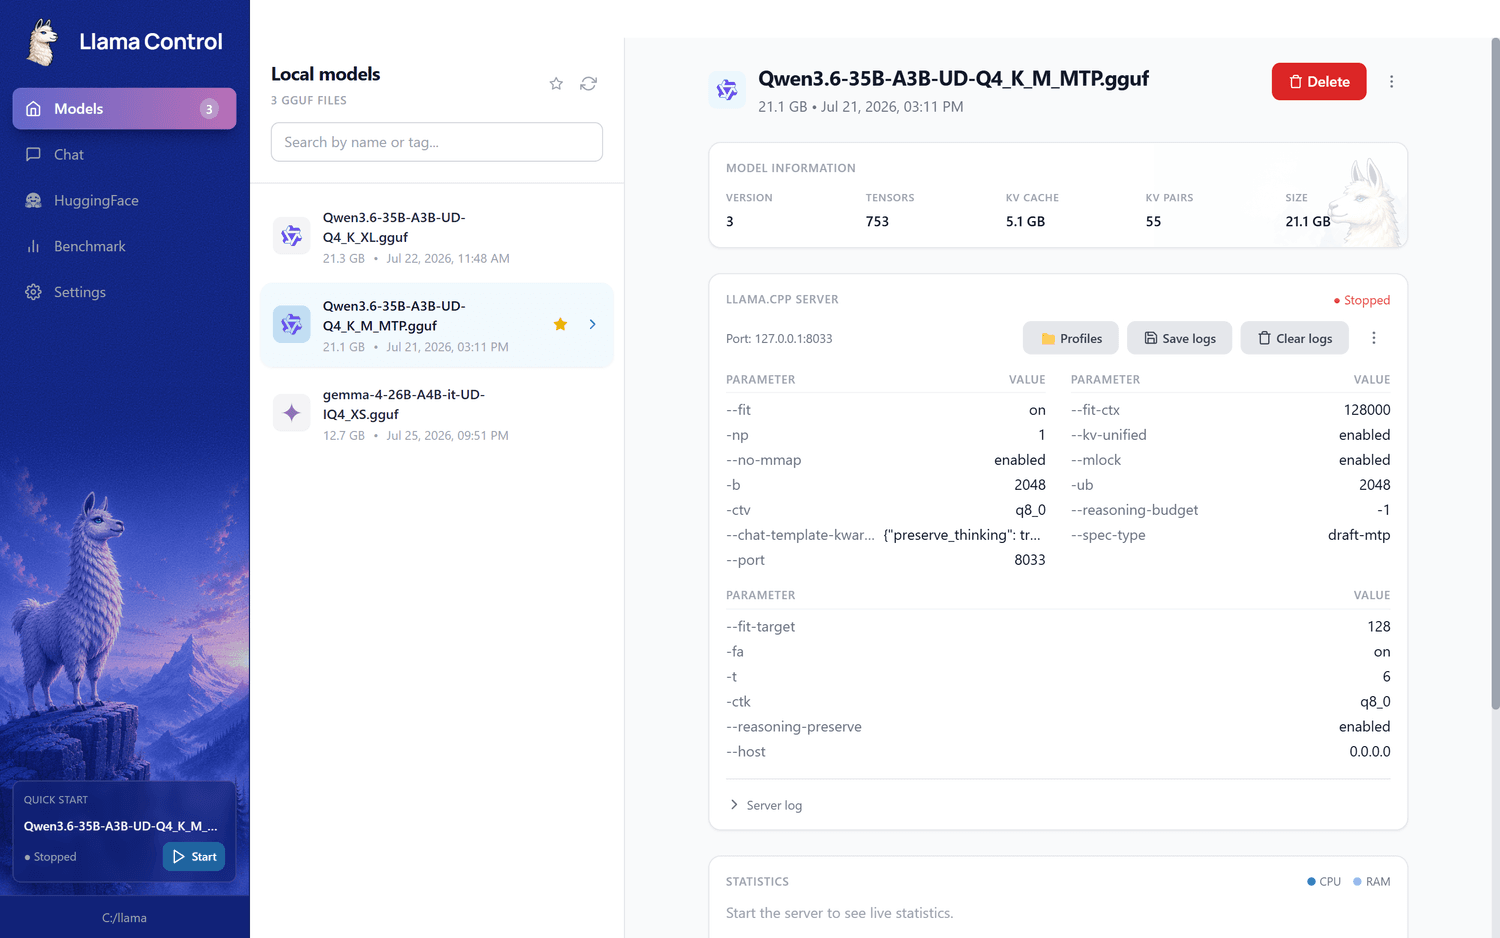
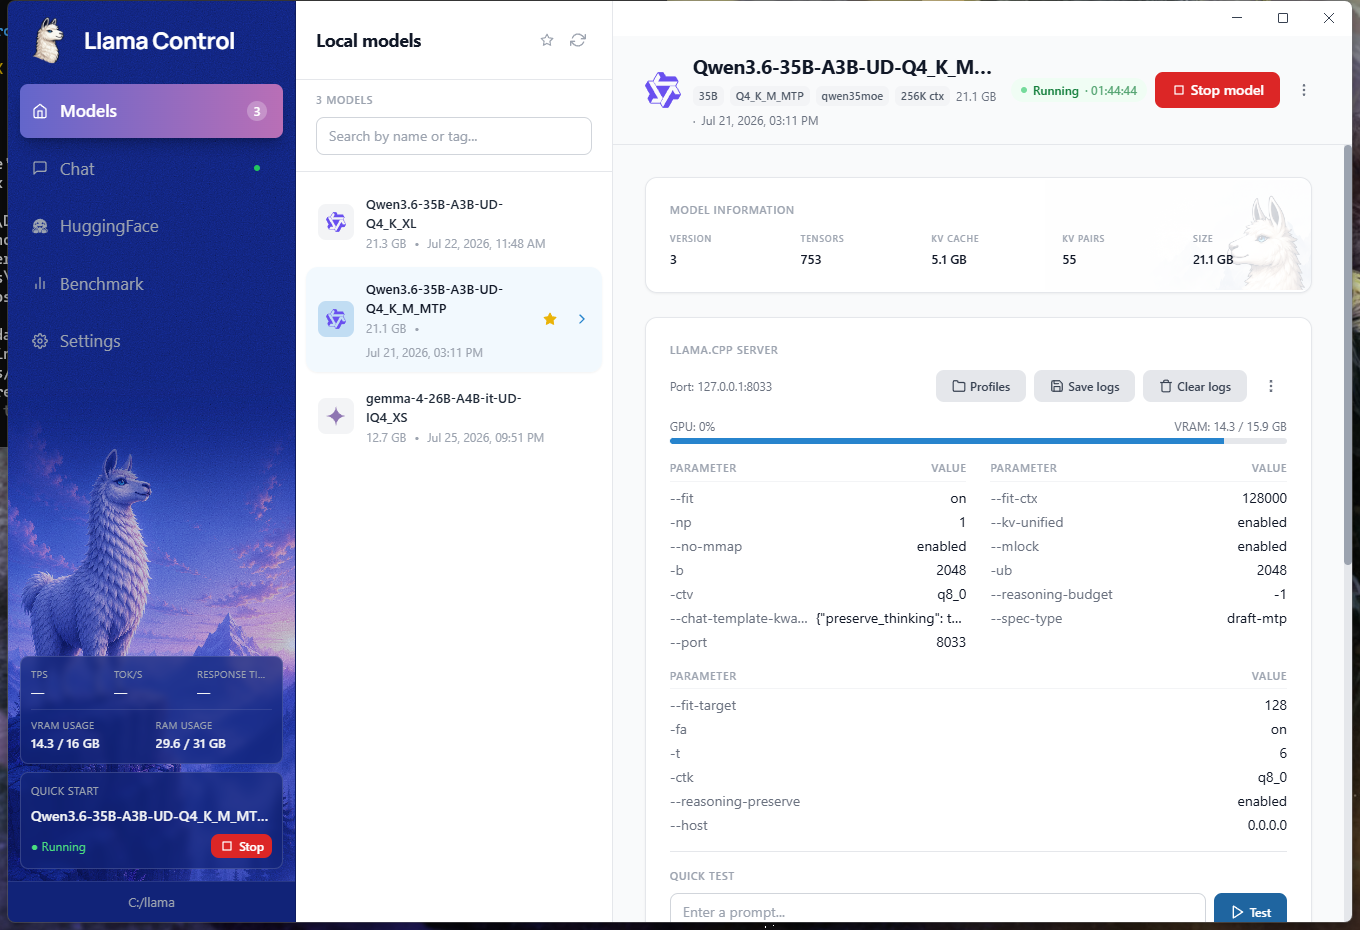
Document the terminal, and fix the stale AMD/Intel GPU claim
New split terminal ships alongside chat, and both GPU vendors already
get accelerated inference via Vulkan (not just "planned"), so the
feature list and screenshots needed to catch up.

diff --git a/README.md b/README.md
@@ -39,6 +39,10 @@ Llama Control is a friendly **wrapper** around that engine:
   ![Browsing HuggingFace with hardware-aware fit hints](docs/huggingface-en.png)
 
 - **Can figure out good settings for you, and actually checks them.** An AI assistant proposes a starting configuration for a model, then an "auto-tune" mode can launch it for real, test it under real load, and automatically back off to safer settings if something crashes — instead of just guessing and hoping.
+- **Ships a built-in terminal**, side by side with chat. Split it into as many panes as you need, and each one keeps running — including whatever's inside it — even while you're looking at a different tab.
+
+  ![Chat and a split terminal, side by side](docs/terminal-en.png)
+
 - **Updates itself** whenever a new version comes out.
 
 In short: you install it, the app figures out the rest, you just click.
@@ -50,12 +54,11 @@ This isn't meant to be another standalone AI engine competing with those. It's d
 ### What devices this works on
 
 - **Windows only for now** (10 or 11): desktop or laptop. Doesn't work on phones or tablets.
-- **An NVIDIA graphics card (GeForce/RTX) is recommended.** Models run fast with one. It still works without one, just slower (on the CPU alone).
+- **NVIDIA, AMD and Intel graphics cards all get GPU acceleration** (NVIDIA via CUDA, AMD/Intel via Vulkan) — the app detects what you have and installs the right engine build automatically. No GPU at all still works, just slower (on the CPU alone).
 - AI models can weigh from a few gigabytes to tens of gigabytes each, so it's worth having some free disk space.
 
 #### Planned
 
-- Support for **AMD and Intel graphics cards** (currently works best with NVIDIA).
 - Optimization and support for **macOS and Linux** (currently Windows only).
 - Widening the automatic configuration tester to cover more settings and hardware combinations, so more models get a verified-working setup with a single click.
 
@@ -103,6 +106,10 @@ Llama Control to wygodna **nakładka** na ten silnik:
   ![Przeglądanie HuggingFace z podpowiedziami dopasowania do sprzętu](docs/huggingface-pl.png)
 
 - **Potrafi sama dobrać ustawienia i to sprawdzić.** Asystent AI proponuje konfigurację startową dla modelu, a tryb "auto-tune" może realnie ją uruchomić, przetestować pod prawdziwym obciążeniem i automatycznie cofnąć się do bezpieczniejszych ustawień, jeśli coś się wysypie — zamiast zgadywać na ślepo.
+- **Ma wbudowany terminal**, obok czatu. Można go podzielić na tyle paneli, ile potrzeba, a każdy działa dalej — razem z tym, co w nim odpalone — nawet gdy patrzysz akurat na inną zakładkę.
+
+  ![Czat i podzielony terminal obok siebie](docs/terminal-pl.png)
+
 - **Sama się aktualizuje**, gdy pojawi się nowa wersja.
 
 Krótko: instalujesz, apka sama dogaduje resztę, Ty tylko klikasz.
@@ -114,12 +121,11 @@ To nie jest kolejny, osobny silnik AI konkurujący z tamtymi. To celowo **lekka 
 ### Na jakich urządzeniach to działa
 
 - **Obecnie tylko Windows** (10 lub 11): komputer stacjonarny lub laptop. Nie działa na telefonach ani tabletach.
-- **Karta graficzna NVIDIA (GeForce/RTX) jest zalecana.** Wtedy modele AI działają szybko. Bez niej też zadziała, ale wolniej (na samym procesorze).
+- **Karty graficzne NVIDIA, AMD i Intel — wszystkie dostają przyspieszenie GPU** (NVIDIA przez CUDA, AMD/Intel przez Vulkan) — aplikacja sama rozpoznaje, co masz, i instaluje odpowiednią wersję silnika. Bez karty graficznej też zadziała, tylko wolniej (na samym procesorze).
 - Modele AI potrafią ważyć od kilku do kilkudziesięciu gigabajtów, więc warto mieć trochę wolnego miejsca na dysku.
 
 #### Plany na przyszłość
 
-- Wsparcie dla **kart graficznych AMD i Intel** (obecnie najlepiej działa z NVIDIA).
 - Optymalizacja i wsparcie dla **macOS i Linuksa** (obecnie tylko Windows).
 - Rozszerzenie automatycznego testera konfiguracji o więcej ustawień i kombinacji sprzętowych, żeby więcej modeli dostawało sprawdzoną, działającą konfigurację jednym kliknięciem.
 
